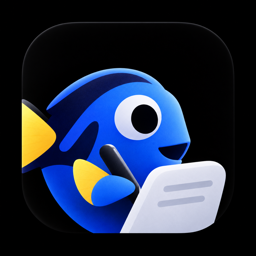
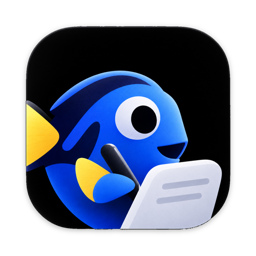
fix(gpui): defects the visual pass found on the new surfaces
Secondary buttons drew their 1 pt edge inside the focus ring's 2 pt
border, so the fill showed outside it; the edge now covers the button.
About's icon is rendered from Dory.icns so its corners stay
transparent. Previews point at listed recordings by title, so the mini
waveform draws real levels. U2 always offers Cancel Download, and it
wraps under the size at large text (caught by the containment check).
Undo moves focus to Close before the toast leaves. The activity dots
grow with the text. visual-pass.sh captures the queue and summaries
states.

diff --git a/apps/dory-gpui/src/set_up_summaries.rs b/apps/dory-gpui/src/set_up_summaries.rs
@@ -511,17 +511,24 @@ impl Render for SetUp {
             Step::Downloading { download, .. } => {
                 let (shown, spoken) = progress_words(*download);
                 let percent = download.percent().map(|p| p.get());
-                let cancel = self.models.clone().zip(match &step {
-                    Step::Downloading { .. } => {
-                        self.models
-                            .as_ref()
-                            .and_then(|m| match readiness(m.read(cx)) {
-                                Readiness::Missing { model, .. } => Some(model.erase()),
-                                _ => None,
-                            })
-                    }
+                let models = self.models.clone();
+                let key = models.as_ref().and_then(|m| match readiness(m.read(cx)) {
+                    Readiness::Missing { model, .. } => Some(model.erase()),
                     _ => None,
                 });
+                let cancel = surface::button(
+                    "set-up-cancel",
+                    "Cancel Download",
+                    "Cancel Download",
+                    Look::Secondary,
+                    &self.cancel,
+                    &theme,
+                    move |_, cx| {
+                        if let (Some(models), Some(key)) = (&models, &key) {
+                            models.update(cx, |m, cx| m.cancel(key, cx));
+                        }
+                    },
+                );
                 body = body
                     .child(
                         Self::card(
@@ -549,27 +556,18 @@ impl Render for SetUp {
                         .child(
                             div()
                                 .flex()
+                                .flex_wrap()
                                 .items_center()
                                 .gap(px(8.))
                                 .child(
                                     div()
-                                        .flex_1()
+                                        .flex_grow(1.)
                                         .text_size(theme.text(12.))
                                         .text_color(theme.text_secondary)
                                         .font_features(crate::theme::tabular())
                                         .child(shown),
                                 )
-                                .children(cancel.map(|(models, key)| {
-                                    surface::button(
-                                        "set-up-cancel",
-                                        "Cancel Download",
-                                        "Cancel Download",
-                                        Look::Secondary,
-                                        &self.cancel,
-                                        &theme,
-                                        move |_, cx| models.update(cx, |m, cx| m.cancel(&key, cx)),
-                                    )
-                                })),
+                                .child(cancel),
                         ),
                     )
                     .child(note(

diff --git a/apps/dory-gpui/src/app/queue.rs b/apps/dory-gpui/src/app/queue.rs
@@ -49,7 +49,7 @@ impl AppState {
     /// finished jobs, and the estimates. A pinned preview wins.
     pub fn processing_queue(&self) -> Queue {
         if let Some(preview) = &self.queue_preview {
-            return preview.clone();
+            return self.on_listed_recordings(preview.clone());
         }
         let mut queue = Queue {
             finished: self.finished.clone(),
@@ -103,6 +103,33 @@ impl AppState {
                     problem,
                 });
             }
+        }
+        queue
+    }
+
+    /// A preview names sample recordings. Where the library lists one by that title, the row
+    /// points at it instead, so its waveform and Choose act on a real recording.
+    fn on_listed_recordings(&self, mut queue: Queue) -> Queue {
+        let listed = |title: &str, id: &mut RecordingId| {
+            if let Some(row) = self
+                .recordings
+                .iter()
+                .find(|r| r.recording.title.as_deref() == Some(title))
+            {
+                *id = row.recording.id.clone();
+            }
+        };
+        if let Some(now) = &mut queue.now {
+            listed(&now.title, &mut now.recording);
+        }
+        for w in &mut queue.next {
+            listed(&w.title, &mut w.recording);
+        }
+        for b in &mut queue.attention {
+            listed(&b.title, &mut b.recording);
+        }
+        for f in &mut queue.finished {
+            listed(&f.title, &mut f.recording);
         }
         queue
     }

diff --git a/apps/dory-gpui/src/surface.rs b/apps/dory-gpui/src/surface.rs
@@ -183,9 +183,7 @@ pub fn button(
         .map(|b| match look {
             Look::Primary => b.bg(theme.accent).text_color(theme.on_accent),
             Look::Secondary => b.bg(theme.control_bg).text_color(theme.text).child(
-                div()
-                    .absolute()
-                    .inset_0()
+                edge()
                     .rounded(px(7.))
                     .border_1()
                     .border_color(theme.control_border),
@@ -195,6 +193,17 @@ pub fn button(
         })
         .relative()
         .child(text.into())
+}
+
+/// A 1 pt edge over a focusable button. The focus ring's transparent 2 pt border sits outside
+/// the padding box an absolute child fills, so the edge reaches back over it to the outside.
+fn edge() -> Div {
+    div()
+        .absolute()
+        .top(px(-2.))
+        .left(px(-2.))
+        .right(px(-2.))
+        .bottom(px(-2.))
 }
 
 /// The 28 by 28 close button with Lucide `x`, named "Close".
@@ -222,9 +231,7 @@ pub fn close_button(
         .bg(theme.close_bg)
         .when(theme.high_contrast, |b| {
             b.child(
-                div()
-                    .absolute()
-                    .inset_0()
+                edge()
                     .rounded_full()
                     .border_1()
                     .border_color(theme.text_secondary),

diff --git a/apps/dory-gpui/src/processing_window.rs b/apps/dory-gpui/src/processing_window.rs
@@ -414,7 +414,11 @@ impl ProcessingWindow {
                                     .text_size(theme.text(12.))
                                     .text_color(theme.text_secondary)
                                     .font_features(crate::theme::tabular())
-                                    .child(glyphs::dots(theme.accent_text, 12., at))
+                                    .child(glyphs::dots(
+                                        theme.accent_text,
+                                        12. * theme.text_scale,
+                                        at,
+                                    ))
                                     .child(running.stage_line()),
                             ),
                     )

diff --git a/apps/dory-gpui/src/about.rs b/apps/dory-gpui/src/about.rs
@@ -15,7 +15,8 @@ pub const WIDTH: f32 = 440.;
 pub const HEIGHT: f32 = 640.;
 
 const LUCIDE_VERSION: &str = include_str!("../assets/icons/VERSION");
-/// The app icon at 128 pt, drawn at 2x from `icon/source.png` (the file `Dory.icns` is made from).
+/// The app icon at 128 pt, rendered at 2x from `Dory.icns`, so it keeps the icon grid and the
+/// transparent corners that `scripts/make-icon.sh` cuts from `icon/source.png`.
 pub const ICON_PNG: &[u8] = include_bytes!("../assets/about/dory-icon.png");
 pub const ICON_SIZE: f32 = 128.;
 const LUCIDE_LICENSE: &str = include_str!("../assets/icons/LICENSE");

diff --git a/apps/dory-gpui/src/fixtures.rs b/apps/dory-gpui/src/fixtures.rs
@@ -389,7 +389,10 @@ pub fn queue_state(name: &str) -> Option<crate::processing_queue::Queue> {
             ..Queue::default()
         },
         "finished" => Queue {
-            next: vec![waiting(3, "1:1 with Sam", 0)],
+            next: vec![Waiting {
+                starts_in: None,
+                ..waiting(3, "1:1 with Sam", 0)
+            }],
             finished: finished(),
             left: Some(Ms(9 * MIN)),
             ..Queue::default()
